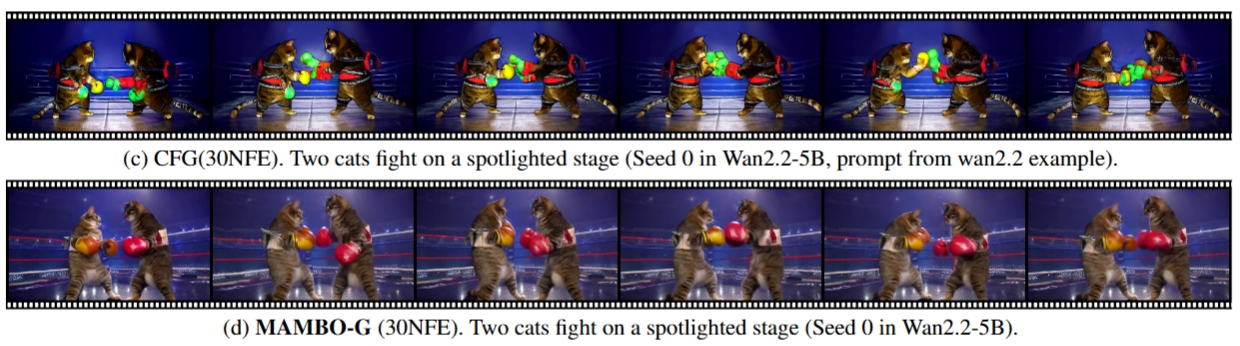
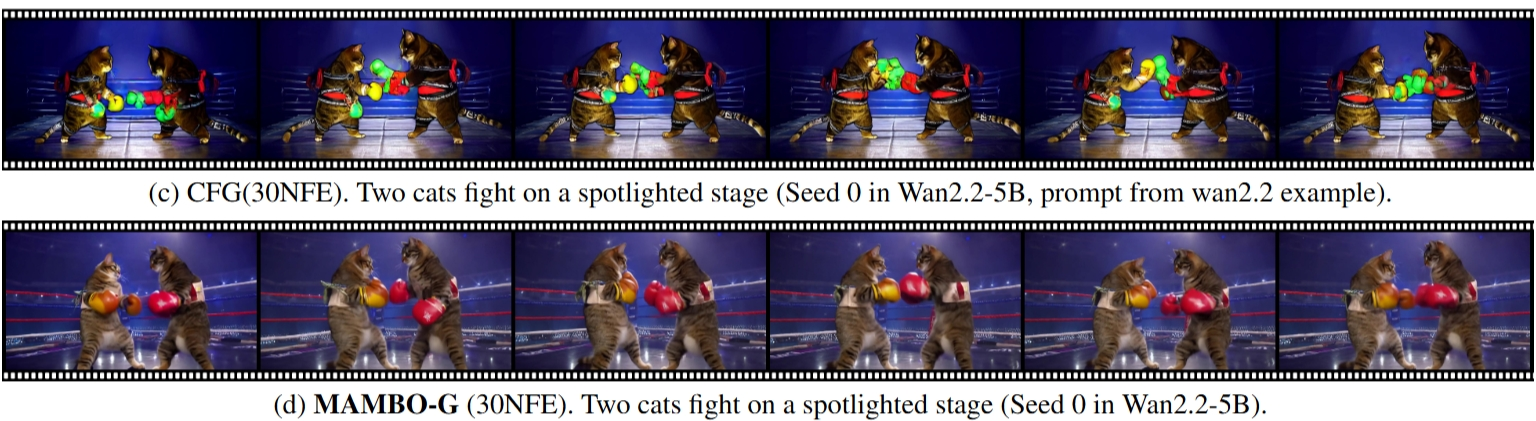
docs: improve head display resolution with side-by-side image layouts

diff --git a/README.md b/README.md
@@ -20,7 +20,8 @@
 **MAMBO-G** is a **training-free**, universal acceleration framework for Classifier-Free Guidance (CFG). By dynamically optimizing guidance magnitudes based on the update-to-prediction ratio, **MAMBO-G** achieves up to **3.0× speedup** on image models (SD3.5, Lumina, Qwen-Image) and **2.0× speedup** on the Wan2.1-14B video model, all while preserving high visual fidelity.
 
 <div align="center">
-  <img src="figures/head_display_image.png" alt="MAMBO-G Image Comparison" width="100%">
+  <img src="figures/head_display_image_a.png" alt="MAMBO-G Image Comparison A" width="49.5%">
+  <img src="figures/head_display_image_b.png" alt="MAMBO-G Image Comparison B" width="49.5%">
   <br>
   <img src="figures/head_display_video.png" alt="MAMBO-G Video Comparison" width="100%">
   <br>
